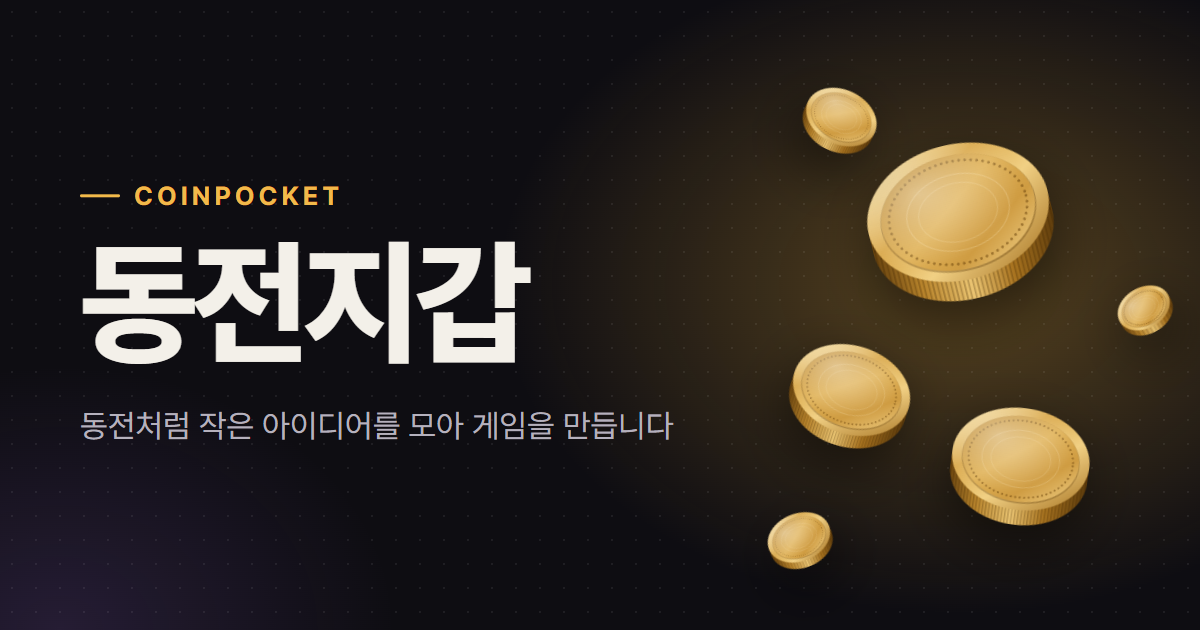
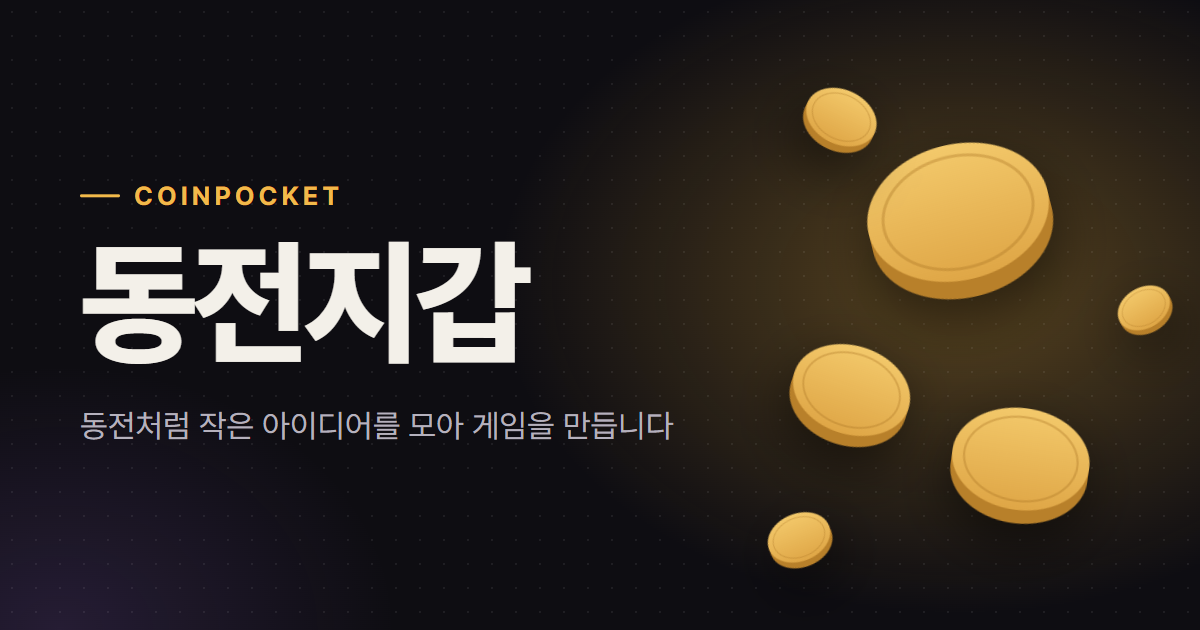
동전 그림을 장식 없는 차분한 단색으로 바꾸기

diff --git a/scripts/og-image.html b/scripts/og-image.html
@@ -78,31 +78,18 @@
 	<svg width="0" height="0" style="position:absolute">
 		<!-- src/components/HeroCoins.astro 의 동전과 같은 그림 -->
 		<defs>
-			<linearGradient id="hc-edge" x1="0" x2="1" y1="0" y2="0">
-				<stop offset="0" stop-color="#6b450f" /><stop offset=".22" stop-color="#b9852c" /><stop offset=".48" stop-color="#ecc673" /><stop offset=".72" stop-color="#a8731f" /><stop offset="1" stop-color="#5e3c0c" />
+			<linearGradient id="hc-face" x1="0" y1="0" x2="0" y2="1">
+				<stop offset="0" stop-color="#f3c96b" />
+				<stop offset="1" stop-color="#dfa646" />
 			</linearGradient>
-			<pattern id="hc-reed" width="2.2" height="10" patternUnits="userSpaceOnUse"><rect width="0.9" height="10" fill="rgb(60 36 0 / .28)" /></pattern>
-			<linearGradient id="hc-rim" x1="0" y1="0" x2="1" y2="1">
-				<stop offset="0" stop-color="#fbe8ad" /><stop offset=".35" stop-color="#d9a748" /><stop offset=".6" stop-color="#f1d084" /><stop offset="1" stop-color="#a26e1d" />
-			</linearGradient>
-			<linearGradient id="hc-field" x1="0" y1="0" x2="1" y2="1">
-				<stop offset="0" stop-color="#b98328" /><stop offset=".45" stop-color="#e0b257" /><stop offset=".7" stop-color="#cf9c42" /><stop offset="1" stop-color="#f1d28a" />
-			</linearGradient>
-			<radialGradient id="hc-spec" cx=".32" cy=".3" r=".55"><stop offset="0" stop-color="#fff" stop-opacity=".4" /><stop offset="1" stop-color="#fff" stop-opacity="0" /></radialGradient>
+			<!-- 앞면 + 옆면(아래로 9만큼 두께) + 앞면 안쪽 얇은 테두리 -->
+			<symbol id="coin" viewBox="0 0 100 100">
+				<ellipse cx="50" cy="55" rx="46" ry="34" fill="#b8802a" />
+				<rect x="4" y="46" width="92" height="9" fill="#b8802a" />
+				<ellipse cx="50" cy="46" rx="46" ry="34" fill="url(#hc-face)" />
+				<ellipse cx="50" cy="46" rx="38" ry="28" fill="none" stroke="#a87322" stroke-opacity=".35" stroke-width="1.5" />
+			</symbol>
 		</defs>
-		<symbol id="coin" viewBox="0 0 100 100">
-			<ellipse cx="50" cy="56" rx="46" ry="34" fill="url(#hc-edge)" />
-			<rect x="4" y="46" width="92" height="10" fill="url(#hc-edge)" />
-			<ellipse cx="50" cy="56" rx="46" ry="34" fill="url(#hc-reed)" />
-			<rect x="4" y="46" width="92" height="10" fill="url(#hc-reed)" />
-			<ellipse cx="50" cy="46" rx="46" ry="34" fill="url(#hc-rim)" />
-			<ellipse cx="50" cy="46.6" rx="39.5" ry="29" fill="rgb(90 55 5 / .35)" />
-			<ellipse cx="50" cy="46" rx="39" ry="28.6" fill="url(#hc-field)" />
-			<ellipse cx="50" cy="46" rx="35" ry="25.6" fill="none" stroke="rgb(100 62 8 / .5)" stroke-width="1.5" stroke-linecap="round" stroke-dasharray="0 3" />
-			<ellipse cx="50" cy="46" rx="26" ry="19" fill="none" stroke="rgb(255 240 200 / .25)" stroke-width=".5" />
-			<ellipse cx="50" cy="46" rx="20" ry="14.6" fill="none" stroke="rgb(255 240 200 / .2)" stroke-width=".5" />
-			<ellipse cx="50" cy="46" rx="46" ry="34" fill="url(#hc-spec)" />
-		</symbol>
 	</svg>
 	<div id="coins"></div>
 	<script>
